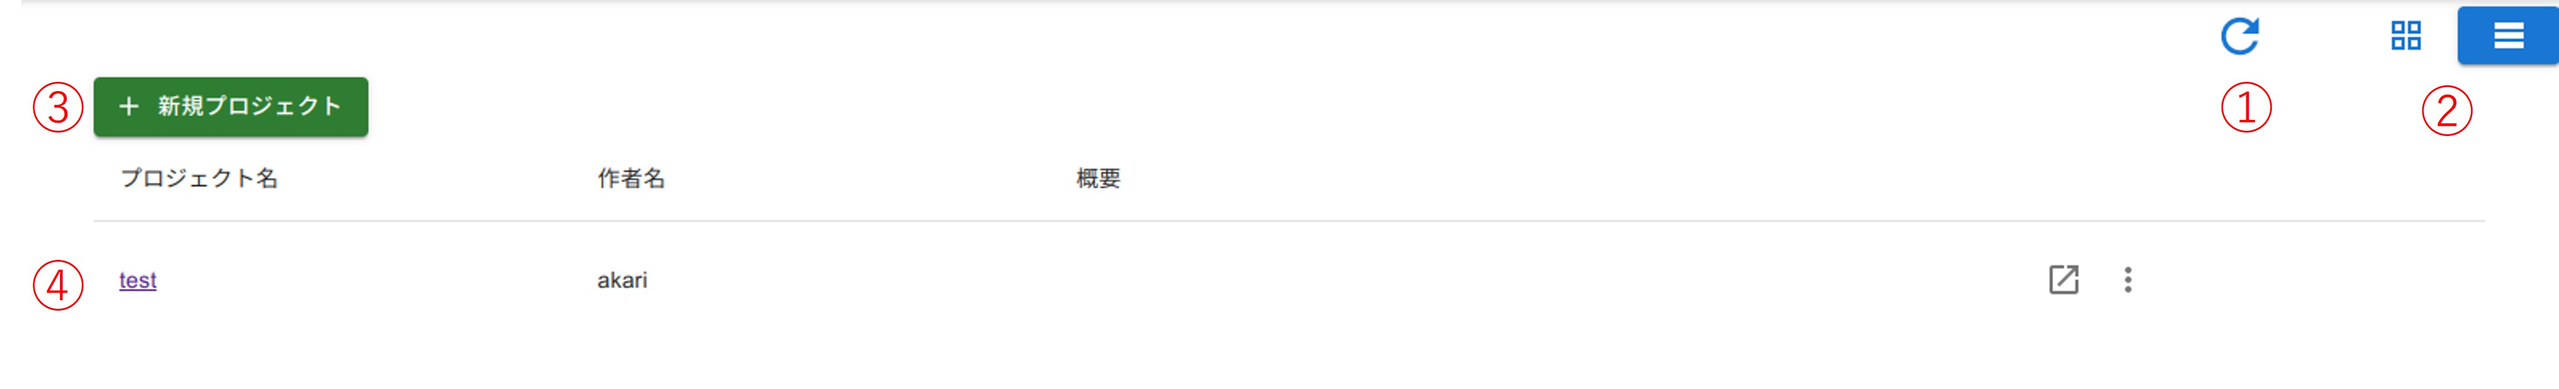
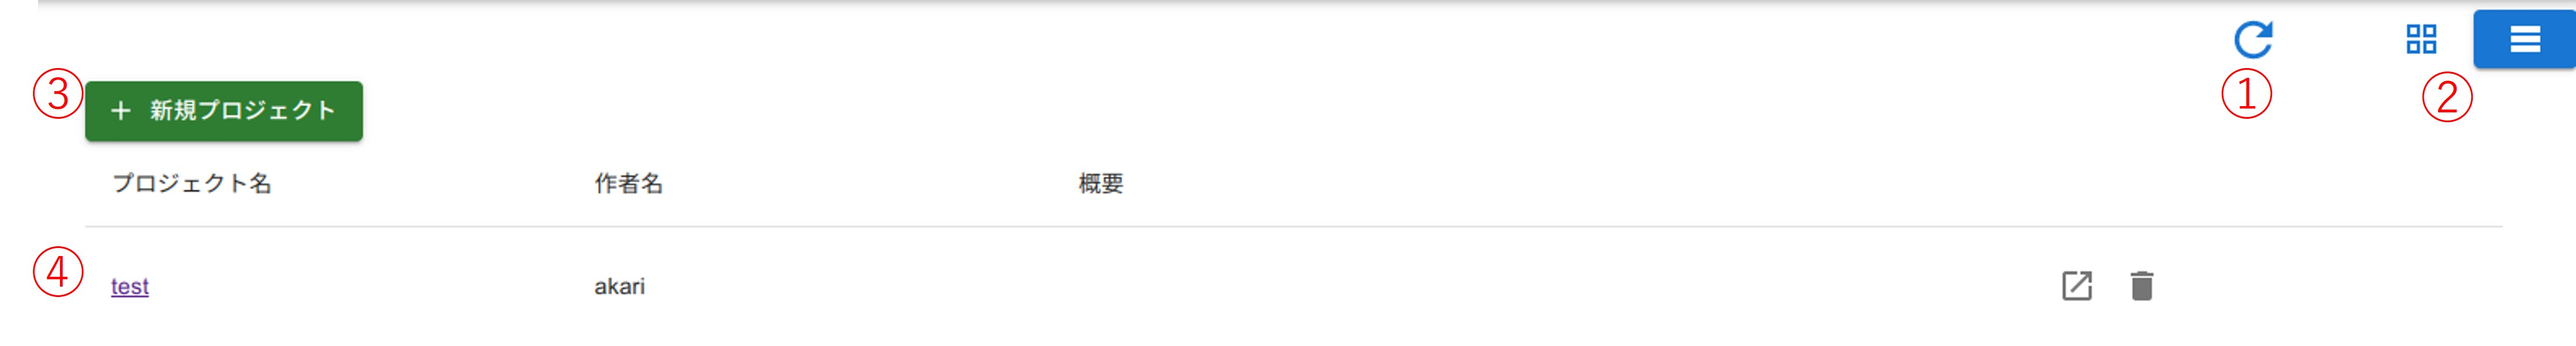
Update for new project page UI

diff --git a/source/tutorial_web/project.rst b/source/tutorial_web/project.rst
@@ -53,8 +53,10 @@ Projectsページの説明
   |   作者の名前です。
   | **・概要**
   |   プロジェクトの概要です。
-  | **・その他ボタン**
-  |   現時点では機能未実装です。
+  | **・サービスボタン**
+  |   サービスページに飛びます。
+  | **・削除ボタン**
+  |   プロジェクトを削除します。
 
 
 ===========================================================
